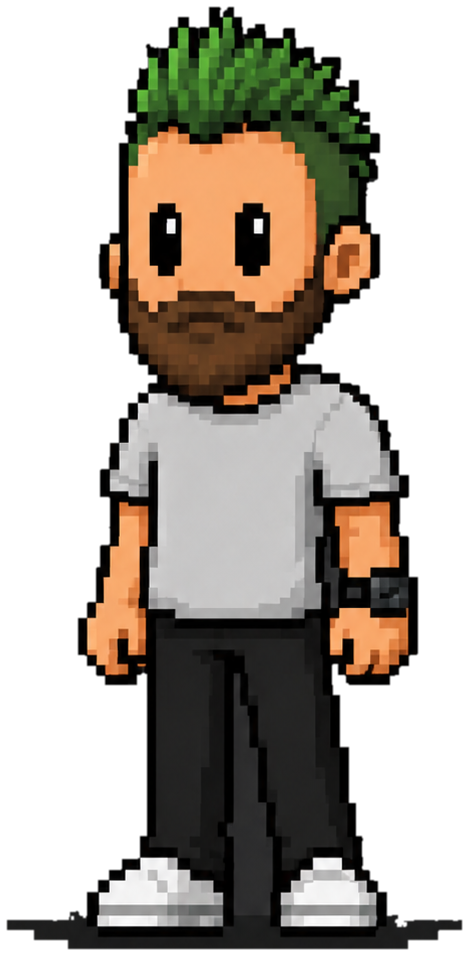
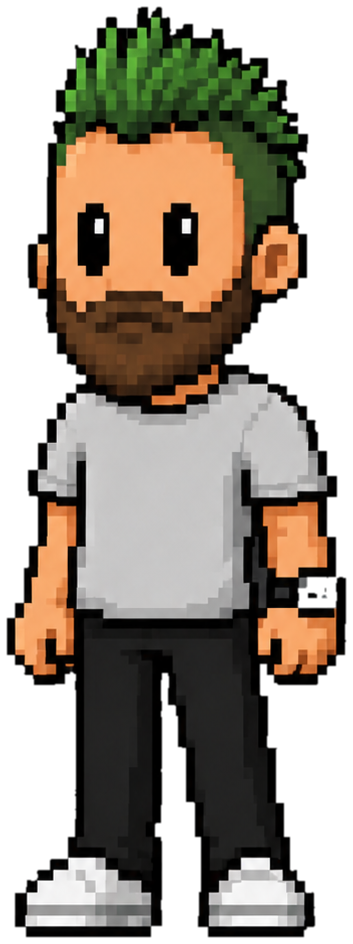
Añade pose de salto de Hero, corrige dirección del jabalí y hueco de piernas de Hero

diff --git a/juego/js/player.js b/juego/js/player.js
@@ -73,20 +73,26 @@ const Player = {
   draw(ctx, t, groundY, cameraX = 0) {
     const now = performance.now();
     const flicker = this.isInvulnerable(now) && Math.floor(t / 80) % 2 === 0;
+    const jumping = !this.grounded;
 
-    const box = getBox(ASSETS.hero, this.x - cameraX, groundY + this.jumpOffset, this.height);
+    const img = jumping ? ASSETS.heroJump : ASSETS.hero;
+    const box = getBox(img, this.x - cameraX, groundY + this.jumpOffset, this.height);
 
     ctx.save();
     if (flicker) ctx.globalAlpha = 0.4;
     if (this.facing === 'right') {
-      // el sprite mira de forma natural hacia la izquierda, así que se
-      // voltea al ir hacia la derecha (y no al revés)
+      // el sprite mira de forma natural hacia la izquierda (igual la pose de
+      // salto), así que se voltea al ir hacia la derecha (y no al revés)
       const centerX = box.x + box.w / 2;
       ctx.translate(centerX, 0);
       ctx.scale(-1, 1);
       ctx.translate(-centerX, 0);
     }
-    drawWalking(ctx, ASSETS.hero, box, this.hipFraction, t, this.isWalking, true);
+    if (jumping) {
+      ctx.drawImage(img, box.x, box.y, box.w, box.h);
+    } else {
+      drawWalking(ctx, img, box, this.hipFraction, t, this.isWalking, true);
+    }
     ctx.restore();
 
     this._box = box; // se guarda para anclar diálogos por encima de su cabeza

diff --git a/juego/js/assets.js b/juego/js/assets.js
@@ -4,6 +4,7 @@ const ASSETS = {
   bgSky: new Image(),     // capa de cielo/árboles para el scroll en paralaje (más lenta)
   bgGround: new Image(),  // capa de hierba/tierra para el scroll en paralaje (velocidad normal)
   hero: new Image(),      // protagonista jugable (aún sin nombre in-game, "Hero" de momento)
+  heroJump: new Image(),  // pose de salto (mientras está en el aire)
   blai: new Image(),      // solo aparece en la cinemática inicial
   blaiShock: new Image(), // pose de Blai preocupado (manos a la cabeza) para el diálogo
   blaiPoint: new Image(), // pose de Blai señalando hacia Hero al pedirle ayuda
@@ -15,6 +16,7 @@ ASSETS.bg.src = '../Visuals/fondo%20lvl1.png';
 ASSETS.bgSky.src = '../Visuals/fondo_cielo.png';
 ASSETS.bgGround.src = '../Visuals/fondo_suelo.png';
 ASSETS.hero.src = '../Visuals/Hero_sinfondo.png';
+ASSETS.heroJump.src = '../Visuals/Hero_salto_sinfondo.png';
 ASSETS.blai.src = '../Visuals/Blai_sinfondo.png';
 ASSETS.blaiShock.src = '../Visuals/Blai_preocupat_sinfondo.png';
 ASSETS.blaiPoint.src = '../Visuals/Blai_preguntant_sinfondo.png';

diff --git a/juego/js/boar.js b/juego/js/boar.js
@@ -118,9 +118,9 @@ const Boar = {
     if (this.state === 'death' && this.deathAnimDone) {
       ctx.globalAlpha = this.fadeAlpha;
     }
-    if (this.dir > 0) {
-      // el sprite mira de forma natural hacia la izquierda, igual que los
-      // personajes -> se voltea al andar hacia la derecha
+    if (this.dir < 0) {
+      // el sprite mira de forma natural hacia la derecha -> se voltea al
+      // andar hacia la izquierda (comprobado jugando: al revés que Hero/Blai)
       const c = box.x + box.w / 2;
       ctx.translate(c, 0);
       ctx.scale(-1, 1);
